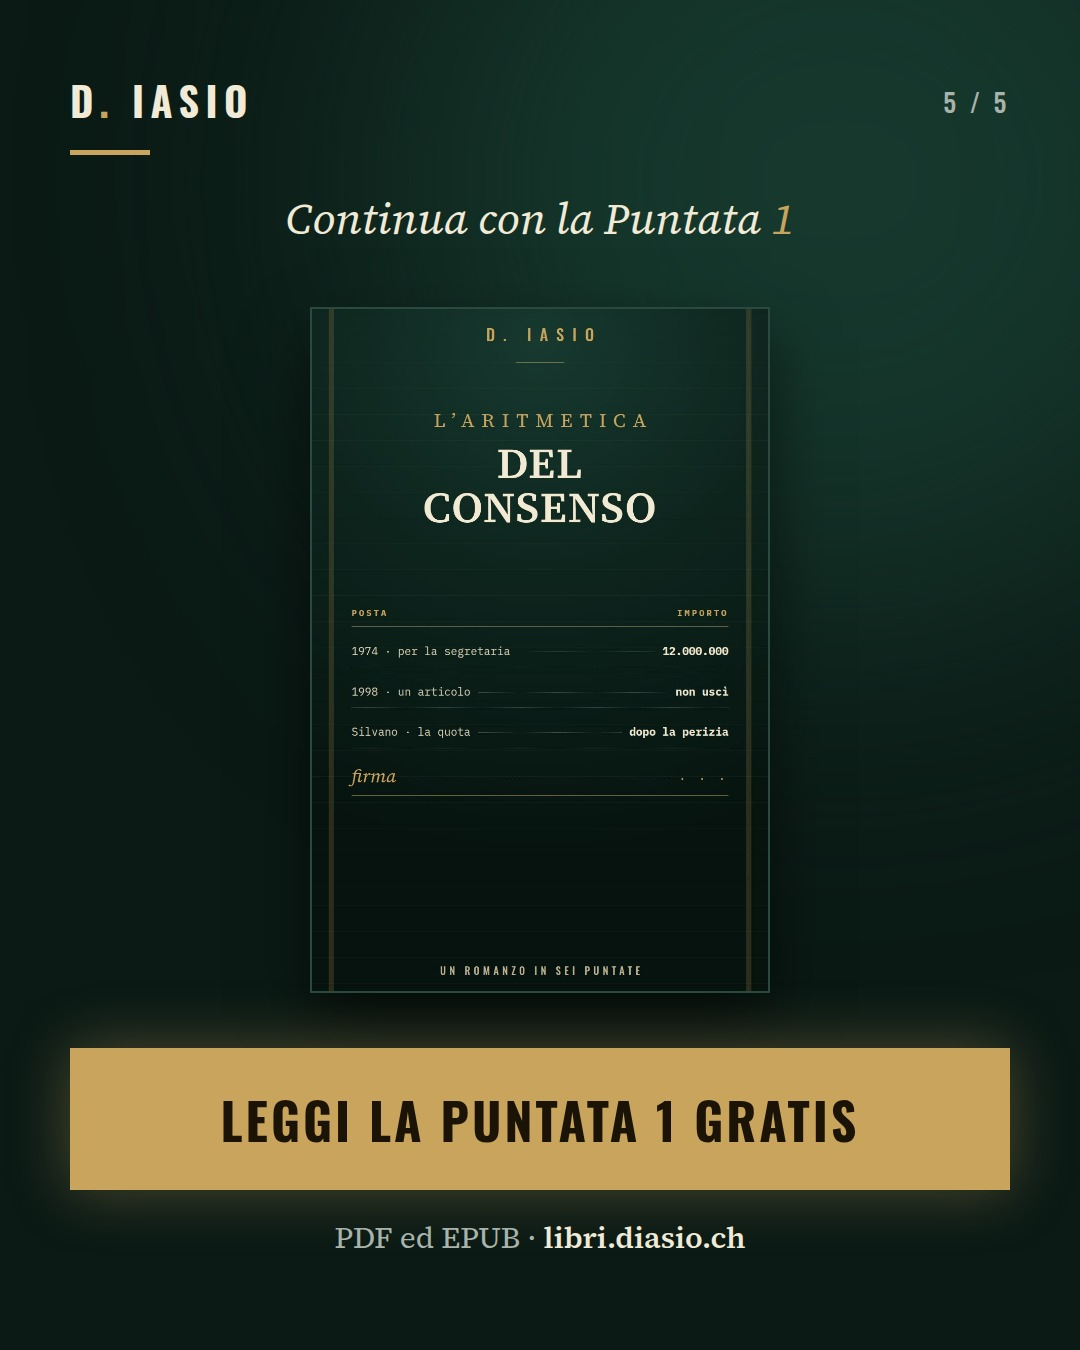
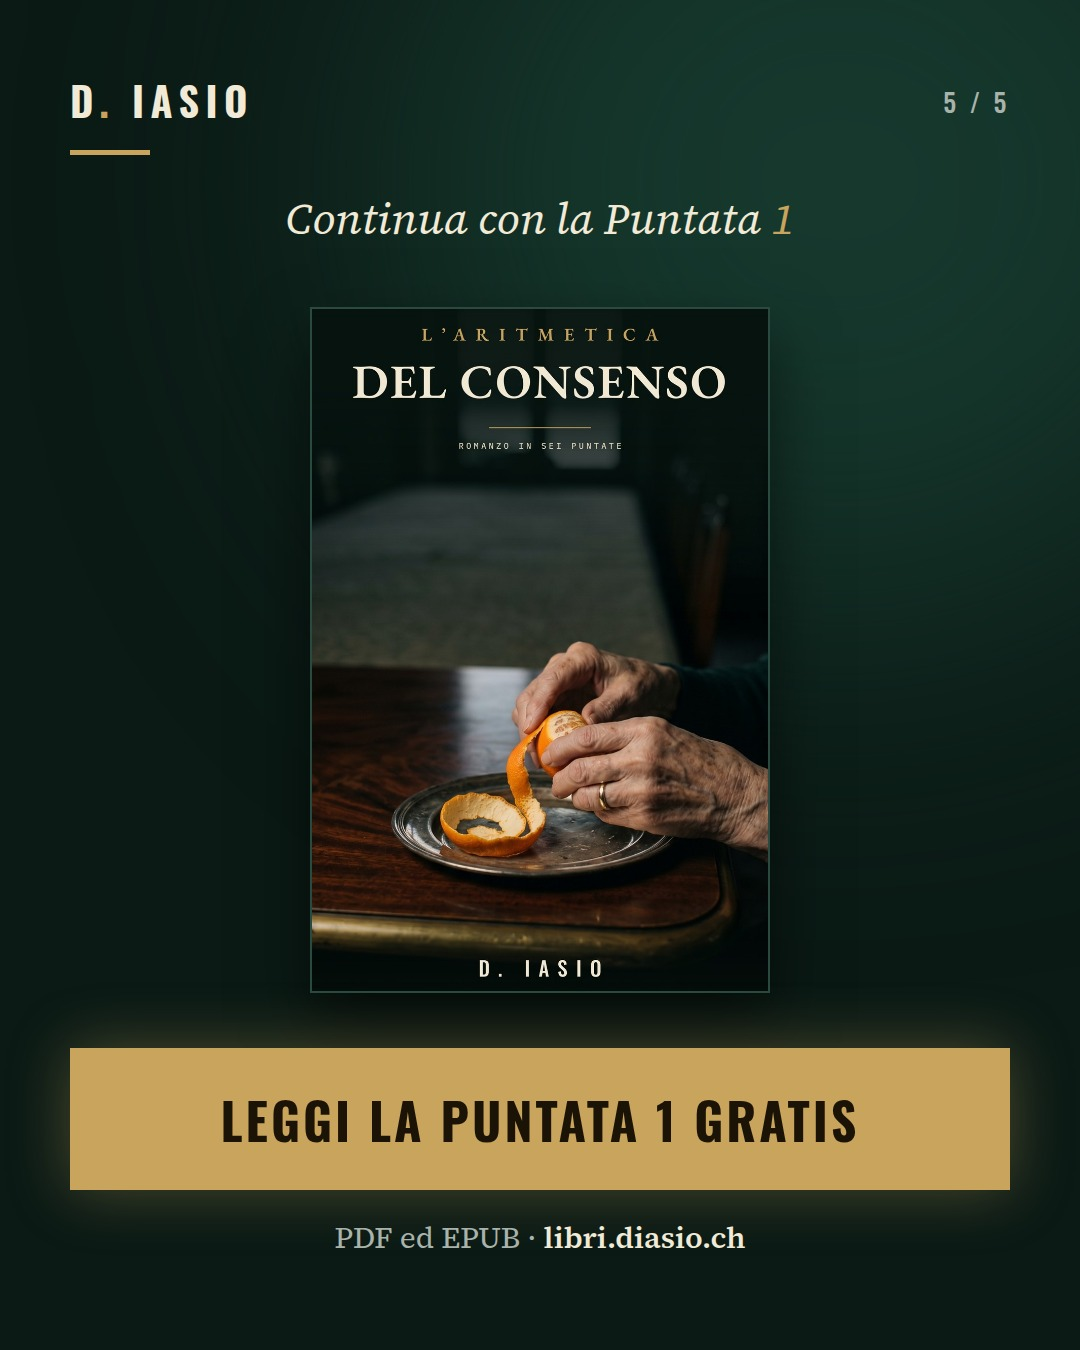
Aritmetica: copertina illustrata (mani e mandarino) su sito, Open Graph e post
Fronte, Open Graph, schede e immagini dei 13 post rigenerati con la copertina
scelta dall'autore; testi alternativi aggiornati. La brossura KDP e i file
ebook restano in Drive.

Claude-Session: https://claude.ai/code/session_01VQWqEXSjD92nXzsqYyRg4b

Changed region(s): [[0.275, 0.2178, 0.7333, 0.7467]]

diff --git a/index.html b/index.html
@@ -60,7 +60,7 @@
 <h2 id="t-libri" class="kicker rv" style="font-size:.9rem">I libri</h2>
 <div class="books">
 <a class="book-card aritmetica feature rv" href="/aritmetica/">
-<img src="/img/cover-aritmetica-sm.jpg" width="150" height="240" alt="Copertina de L’Aritmetica del Consenso: su fondo verde bottiglia, le righe di un registro di conti e una riga di firma ancora vuota" loading="eager">
+<img src="/img/cover-aritmetica-sm.jpg" width="150" height="240" alt="Copertina de L’Aritmetica del Consenso: le mani di una vecchia sbucciano un mandarino su un piatto d’argento, sullo sfondo una tavola lunghissima e una finestra sul lago" loading="eager">
 <div>
 <p class="kicker">Work in progress · noir dinastico · in uscita il 23 ottobre 2026</p>
 <h3>L’Aritmetica del Consenso</h3>

diff --git a/aritmetica/index.html b/aritmetica/index.html
@@ -52,7 +52,7 @@
 <a class="btn" href="#t-quaderno">Qualche accenno</a>
 </div>
 </div>
-<div class="cover"><img src="/img/cover-aritmetica.jpg" width="600" height="960" alt="Copertina de L’Aritmetica del Consenso: su fondo verde bottiglia, le righe di un registro di conti e una riga di firma ancora vuota"></div>
+<div class="cover"><img src="/img/cover-aritmetica.jpg" width="600" height="960" alt="Copertina de L’Aritmetica del Consenso: le mani di una vecchia sbucciano un mandarino su un piatto d’argento, sullo sfondo una tavola lunghissima e una finestra sul lago"></div>
 </div>
 </section>
 

diff --git a/social/tools/aritmetica_lancio.py b/social/tools/aritmetica_lancio.py
@@ -62,7 +62,7 @@ ITEMS = [
    [dict(k="cta", books=["aritmetica"], text="«Somiglia a qualcuno che ho *pagato*.»", button="In uscita il 23 ottobre",
          line="Work in progress · <b>libri.diasio.ch</b>")],
    "Work in progress. Il prossimo romanzo esce il 23 ottobre.\nUn ghostwriter, una famiglia che sta per diventare legalmente eterna e una vecchia che ha cominciato a ricordare tutto.\n«Somiglia a qualcuno che ho pagato.»\nL’Aritmetica del Consenso, noir dinastico di D. Iasio. Segui il conto alla rovescia.",
-   "Copertina de L’Aritmetica del Consenso su fondo verde bottiglia, con la frase «Somiglia a qualcuno che ho pagato.» e il pulsante «In uscita il 23 ottobre». Work in progress."),
+   "Copertina de L’Aritmetica del Consenso (le mani di una vecchia sbucciano un mandarino su un piatto d’argento), con la frase «Somiglia a qualcuno che ho pagato.» e il pulsante «In uscita il 23 ottobre». Work in progress."),
 
  A("a02-aritmetica-quaderno", "2026-10-11T20:23", "Accenni · Il quaderno e il registratore (carosello)",
    [dict(k="hook", kick="L’Aritmetica del Consenso", text="Una *penna*.\nUn *registratore*.", sub="Due versioni dello stesso pomeriggio."),
@@ -118,7 +118,7 @@ ITEMS = [
  A("a11-aritmetica-da-oggi", "2026-10-23T12:29", "Lancio · Da oggi (locandina)",
    [dict(k="cta", books=["aritmetica"], text="Da *oggi*", button="Leggi la Puntata 1 gratis", line="PDF ed EPUB · <b>libri.diasio.ch</b>")],
    "Da oggi. L’Aritmetica del Consenso, noir dinastico di D. Iasio in sei puntate, tutte in un unico ebook.",
-   "Locandina su fondo verde bottiglia con la copertina de L’Aritmetica del Consenso: «Da oggi», pulsante «Leggi la Puntata 1 gratis», PDF ed EPUB su libri.diasio.ch.", post=True),
+   "Locandina su fondo verde bottiglia con la copertina de L’Aritmetica del Consenso (mani di una vecchia che sbucciano un mandarino): «Da oggi», pulsante «Leggi la Puntata 1 gratis», PDF ed EPUB su libri.diasio.ch.", post=True),
 
  A("a13-aritmetica-incipit", "2026-10-25T20:19", "Prime righe (carosello)",
    [dict(k="quote", text="«La vecchia mi ha appena chiesto quanto costava un ministro, ai suoi tempi, e io le ho risposto la verità: meno di quanto costa oggi un buon avvocato.»", who="L’Aritmetica del Consenso · Puntata 1", foot="Puntata 1 gratis · libri.diasio.ch"),

diff --git a/CLAUDE.md b/CLAUDE.md
@@ -27,7 +27,7 @@ Obiettivo unico (dal 5/10/2026): vendita dei romanzi su Amazon Kindle (Bug e Obl
 ## L'Aritmetica del Consenso (6/10/2026)
 Quarto titolo, **non ancora pubblicato**: uscita prevista il **23 ottobre 2026** (venerdì) negli store digitali già citati (Amazon Kindle e, tramite StreetLib, gli altri). Fino ad allora il sito lo presenta come «work in progress» con accenni e conto alla rovescia (`data-countdown="2026-10-23"` in `js/main.js`: «Mancano N giorni»; dopo la data resta il testo statico, da aggiornare). È la prima scheda della home (classe `feature`); Vuoto è la seconda. Il testo è approvato dall'autore (lettura completa, nomi e verifiche esterne confermati il 6/10). Decisioni dell'autore (6/10): il romanzo esce **intero, con tutte e sei le puntate insieme nell'ebook**; la Puntata 1 resta **nascosta fino al 23/10**; dopo l'uscita si preparano anche Reel e altri formati.
 Nel repo c'è **solo il materiale della pagina**: `aritmetica/index.html`, `img/cover-aritmetica*.jpg`, `img/og-aritmetica.jpg`, tema `theme-aritmetica` in `css/style.css`, `books.aritmetica` in `js/config.js`. **La Puntata 1 non è ancora nel repo**: EPUB (epubcheck senza errori) e PDF A5 sono pronti in Drive e vanno aggiunti a `download/` come `laritmetica-del-consenso-puntata-1.epub` e `.pdf` il giorno dell'uscita; la versione della pagina con i pulsanti di download è nel commit `598d906` (PR #40). Le altre cinque puntate, la bibbia di progetto e le copie di sicurezza stanno solo nel Drive privato dell'autore: **non vanno nel repo pubblico**.
-Copertina e immagine Open Graph attuali sono tipografiche (verde bottiglia e ottone, righe di un registro di conti), prodotte da HTML con Chromium: segnaposto in attesa di una copertina illustrata (prompt in Drive). Citazioni sul sito: solo dalla Puntata 1 (EPUB attuale). Il giorno dell'uscita: incollare il link in `js/config.js` (`books.aritmetica.amazon`, `altriStore`), aggiungere la Puntata 1 in `download/` e i pulsanti nella pagina, passare i testi «in uscita» a «su Amazon Kindle» in home, schede e `grazie/`, dichiarare l'uso di IA su KDP e StreetLib. Calendario social: i 13 post di lancio (`a01…a13`, 8-25 ottobre) sono in `calendar.json` (129 voci), approvati dall'autore il 6/10; vedi `social/STRATEGIA.md`, sezione «Lancio de L'Aritmetica del Consenso». Il 22/10 controllare che il libro sia online (a11-a13 dicono «è uscito»).
+**Copertina (6/10):** foto IA scelta dall'autore (mani di una vecchia che sbucciano un mandarino su un piatto d'argento, dichiarare l'uso di IA su KDP e StreetLib) con titolo in EB Garamond e ottone su verde bottiglia; fronte, immagine Open Graph e post usano quella. Brossura KDP (86 pagine, carta crema) e file ebook sono in Drive nella cartella del libro, non nel repo. Citazioni sul sito: solo dalla Puntata 1 (EPUB attuale). Il giorno dell'uscita: incollare il link in `js/config.js` (`books.aritmetica.amazon`, `altriStore`), aggiungere la Puntata 1 in `download/` e i pulsanti nella pagina, passare i testi «in uscita» a «su Amazon Kindle» in home, schede e `grazie/`, dichiarare l'uso di IA su KDP e StreetLib. Calendario social: i 13 post di lancio (`a01…a13`, 8-25 ottobre) sono in `calendar.json` (129 voci), approvati dall'autore il 6/10; vedi `social/STRATEGIA.md`, sezione «Lancio de L'Aritmetica del Consenso». Il 22/10 controllare che il libro sia online (a11-a13 dicono «è uscito»).
 
 ## Calendario social (fino al 31/12/2026)
 **Dal 6/10 due uscite al giorno (decisione dell'utente del 4/10, vedi `social/STRATEGIA.md`, sezione «Due uscite al giorno»):** 31 nuovi post (`n01…n31`, 6/10-2/11, 16 Bug e 15 Oblio) generati da `social/tools/nuovi_ottobre.py`, immagini piatte in `social/img/nuovi/`, scene IA sorgente in `social/img/scene/`. Ogni didascalia non pubblicata dal 5/10 ha una riga su Amazon Kindle (IG «link in bio», FB link diretto); `test_calendario.py` la richiede. Il calendario ora ha 116 voci (129 con i 13 post de L'Aritmetica del Consenso). Servono **nove job** su cron-job.org: ai sei originali si aggiungono pranzo (dom, lun, mar, mer, ven 12:02-12:57), giovedì sera (19:07-19:52) e sabato pomeriggio (17:02-17:47); senza il giovedì sera e il sabato pomeriggio i post di quelle fasce vengono saltati (ritardo oltre 12 ore). Dettagli in `social/AVVIO-ESTERNO.md`. Le edizioni Kindle sono già la v2 rivista (conferma dell'utente, 4/10).

diff --git a/social/STRATEGIA.md b/social/STRATEGIA.md
@@ -136,6 +136,6 @@ Scelte dell'utente: due pubblicazioni al giorno, orizzonte di 4 settimane (dal 6
 Uscita prevista **venerdì 23 ottobre 2026**, romanzo intero (sei puntate in un solo ebook) su Amazon Kindle e, tramite StreetLib, negli altri store digitali. Puntata 1 gratuita dal 23/10 (fino ad allora nascosta). **13 post approvati dall'utente** (id `a01…a13`, definiti in `tools/aritmetica_lancio.py`): annuncio e accenni dall'8 all'11 ottobre, conto alla rovescia «Mancano N giorni» dal 13 al 22, lancio il 23 (locandina a pranzo, post di testo su Facebook la sera), prime righe il 25. Formati: grafiche, 3 caroselli (a02, a09, a13), una Storia (a08), un post di testo (a12). Tema grafico verde bottiglia e ottone (`theme="green"` in `carousel.py`). Tutte le citazioni sono testuali dalla Puntata 1 approvata.
 - **Slot:** il calendario era pieno fino al 2/11: i 13 post prendono il posto di altrettanti post Bug/Oblio, che `tools/aritmetica_sposta.py` ha rimesso dopo il 2 novembre (cambia solo `quando`).
 - **Link:** prima dell'uscita non c'è il link Amazon: le didascalie rimandano al sito (`libri.diasio.ch/aritmetica/`, serve la PR con la pagina) e a «link in bio». Il test `test_calendario.py` esenta questi post dal link Amazon e controlla titolo, data e link al sito. **Il 22/10 verificare che il libro sia davvero online: se l'uscita slitta, a11, a12 e a13 vanno spostati** (dicono «è uscito» e «il romanzo è su Amazon Kindle»).
-- **Copertina:** le immagini usano la copertina tipografica (`reels-src/assets/img/cover-aritmetica.jpg`). Con la copertina illustrata definitiva si sostituisce quel file e si rilanciano `python carousel.py a`. 
+- **Copertina:** dal 6/10 le immagini usano la copertina illustrata (mani e mandarino, `reels-src/assets/img/cover-aritmetica.jpg`). Se cambia, si sostituisce quel file e si rilancia `python carousel.py a`.
 - **Dopo il 23/10:** Reel e altri formati, da pianificare con l'utente. Hashtag: stesse regole, tag noir (nessun tag di satira sui post non ironici; ironici a03 e a07).
 
